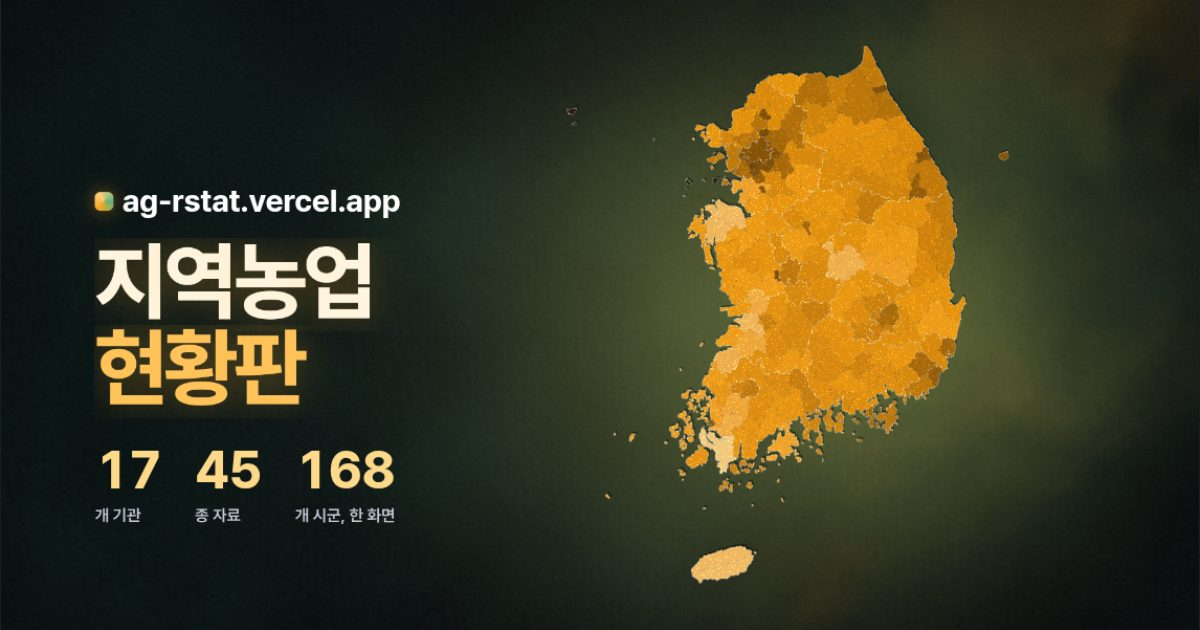
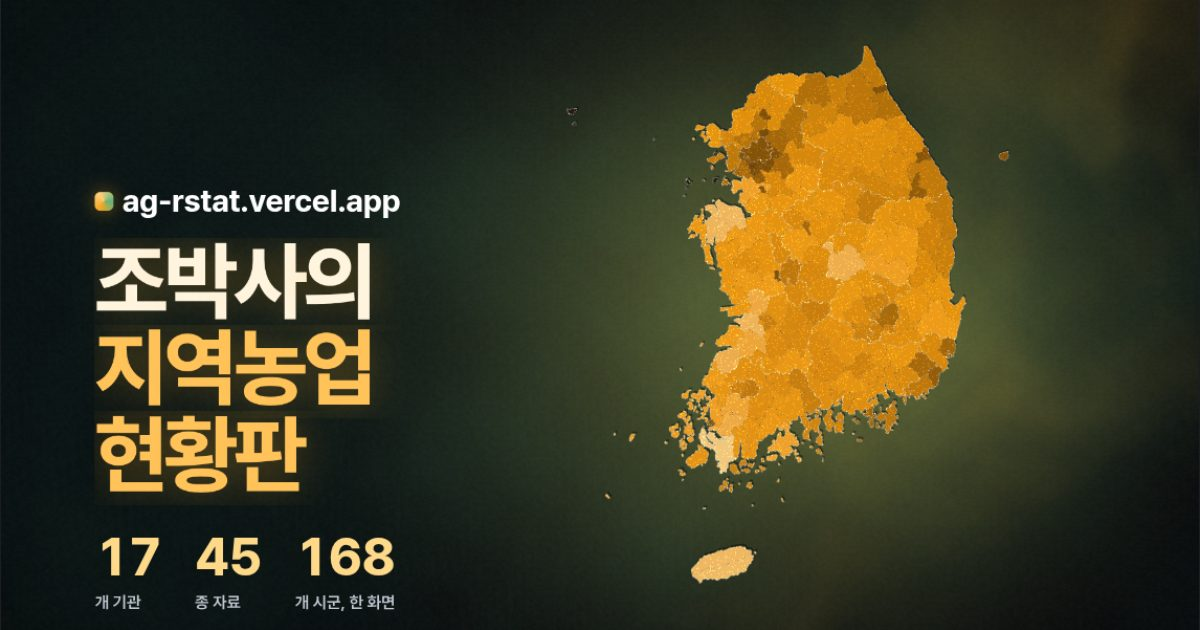
소개 화면 공유 그림을 새 제목 장면으로 다시 찍음

Changed region(s): [[0.0617, 0.3921, 0.3392, 0.9651]]

diff --git a/intro.html b/intro.html
@@ -17,7 +17,7 @@
   <meta property="og:title" content="소개 영상 — 조박사의 지역농업 현황판">
   <meta property="og:description" content="흩어진 농업 통계를 시군 단위 한 화면으로 (2분 소개 영상)">
   <meta property="og:url" content="https://ag-rstat.vercel.app/intro">
-  <meta property="og:image" content="https://ag-rstat.vercel.app/assets/og/intro.jpg?v=202611192308">
+  <meta property="og:image" content="https://ag-rstat.vercel.app/assets/og/intro.jpg?v=202611192323">
   <meta property="og:image:type" content="image/jpeg">
   <meta property="og:image:width" content="1200">
   <meta property="og:image:height" content="630">
